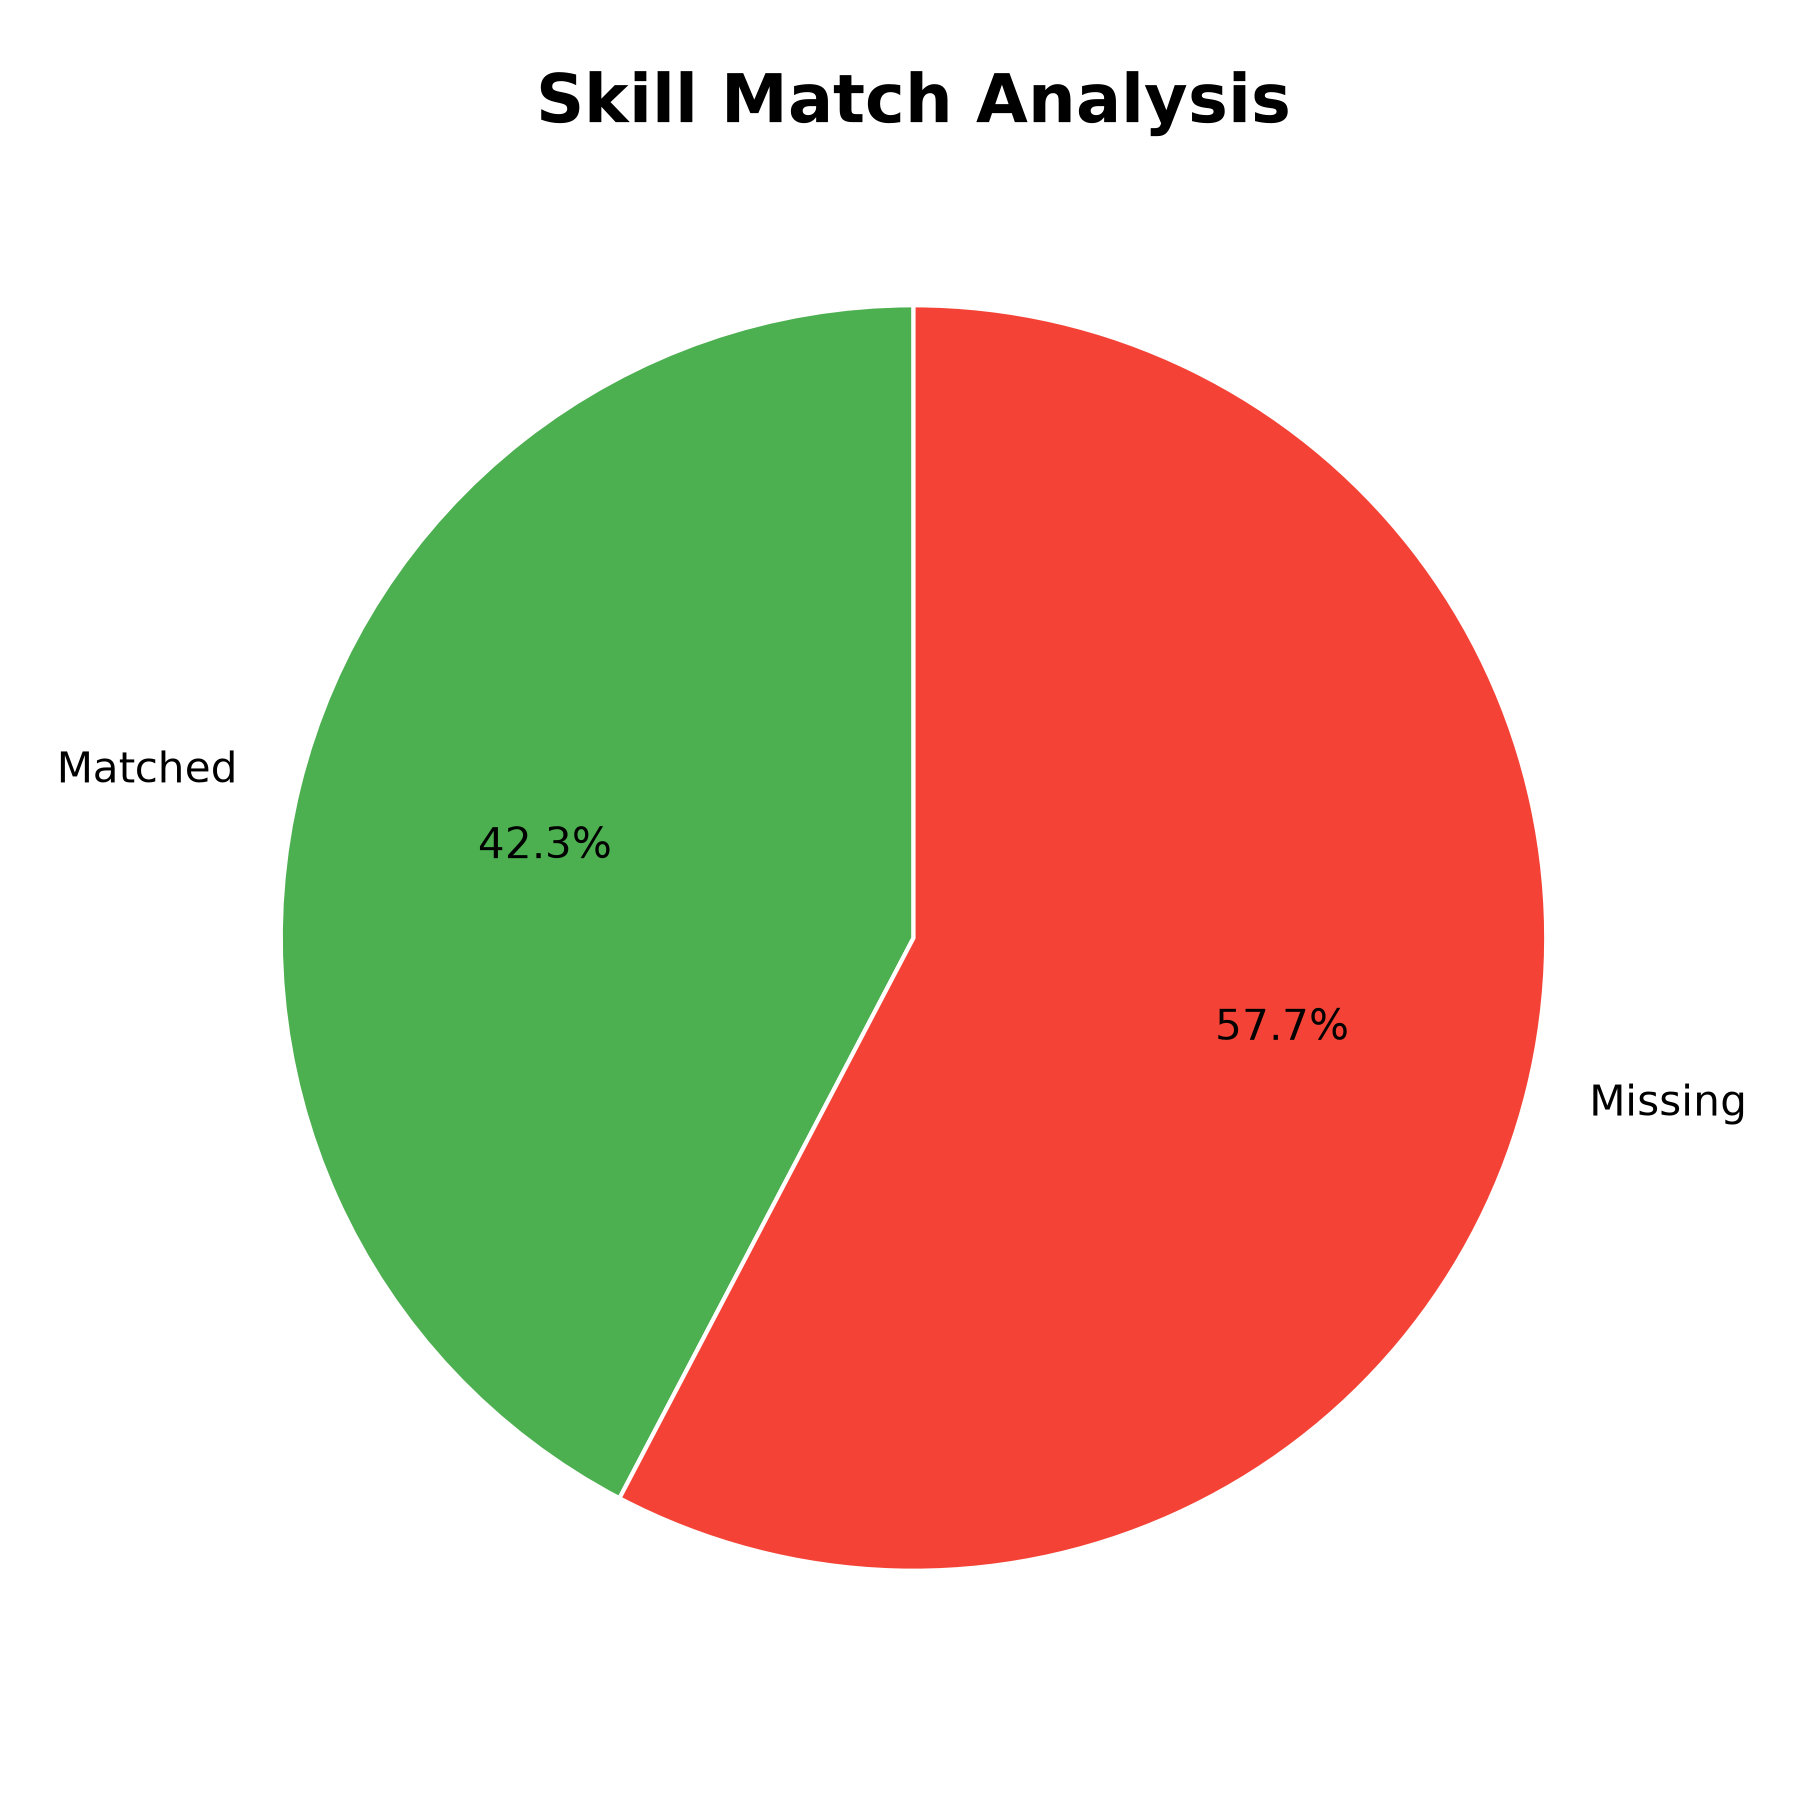
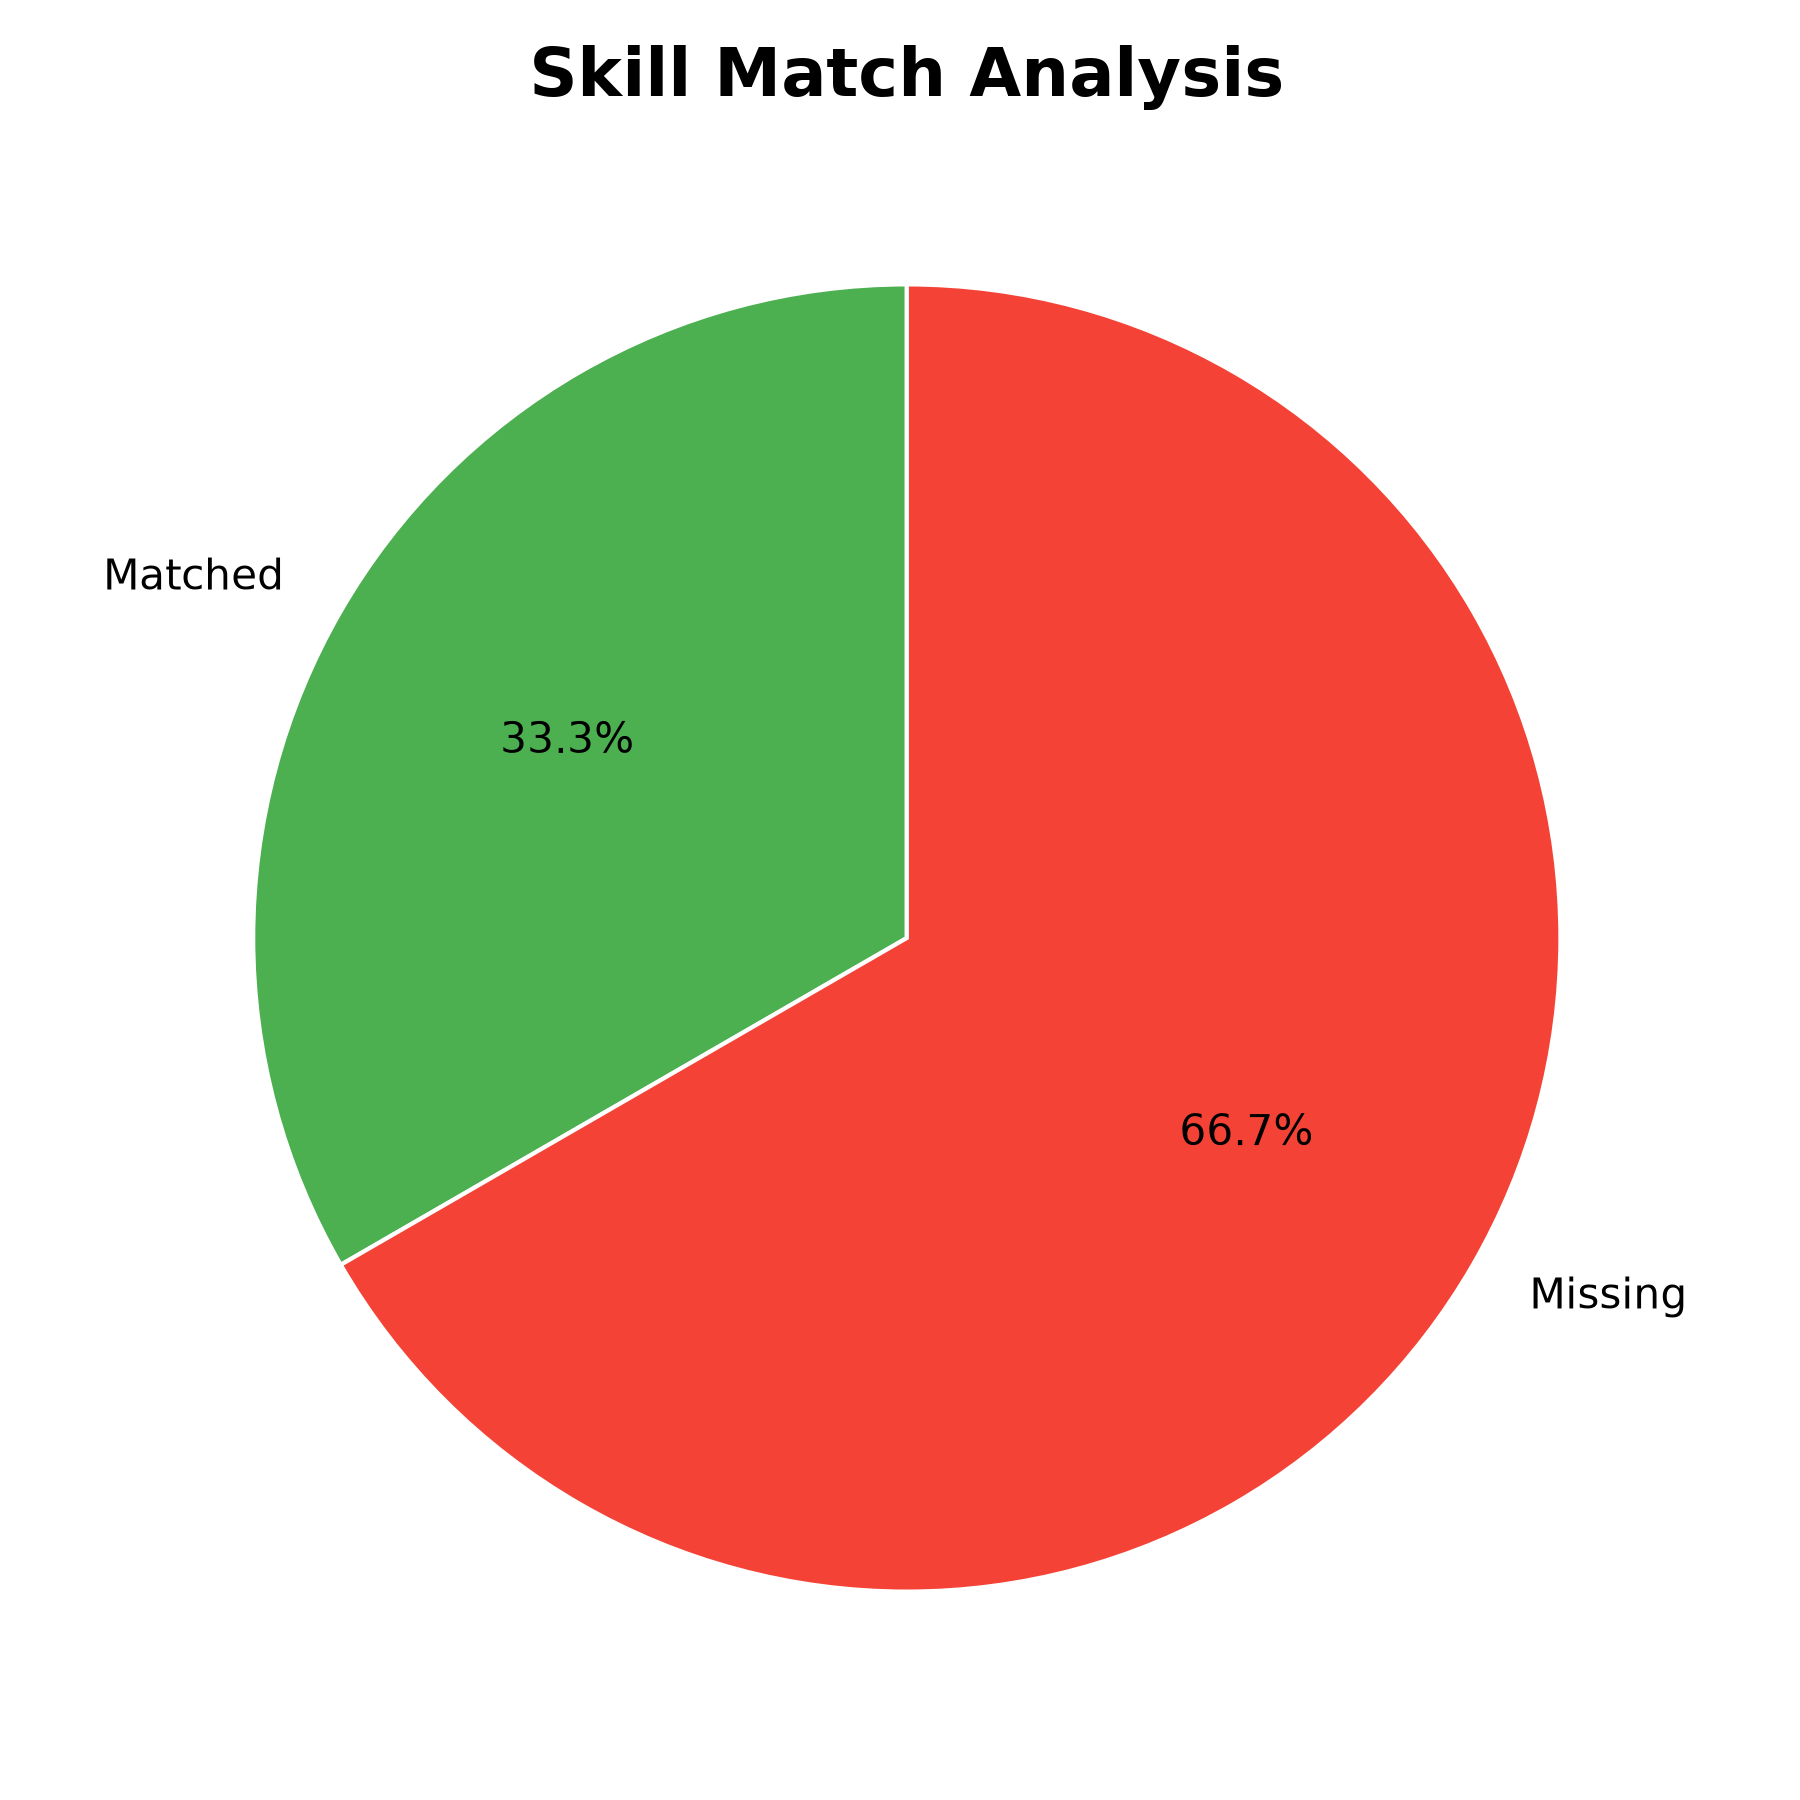
feat: complete AI resume analysis dashboard
Add centralized resume analysis service, chart generation, ATS scoring, skill matching, visual analytics, and AI-powered career feedback. Enhance the Gradio dashboard, update AI feedback integration, and include ATS and skill matching visualization assets.

diff --git a/analyzer/ai_feedback.py b/analyzer/ai_feedback.py
@@ -3,13 +3,20 @@ import os
 from dotenv import load_dotenv
 from huggingface_hub import InferenceClient
 
+
 # ==========================================================
-# Load Environment Variables
+# Configuration
 # ==========================================================
 
 load_dotenv()
 
 HF_TOKEN = os.getenv("HF_TOKEN")
+
+MODEL_NAME = os.getenv(
+    "HF_MODEL",
+    "Qwen/Qwen2.5-7B-Instruct-1M"
+)
+
 
 # ==========================================================
 # Hugging Face Client
@@ -19,80 +26,116 @@ client = InferenceClient(
     api_key=HF_TOKEN
 )
 
+
 # ==========================================================
 # AI Resume Feedback
 # ==========================================================
 
-def generate_feedback(resume_text, ats_score, missing_skills):
+def generate_feedback(
+    resume_text,
+    ats_score,
+    missing_skills
+):
     """
-    Generate AI-based resume improvement suggestions.
+    Generate AI-powered resume improvement suggestions.
 
     Parameters
     ----------
     resume_text : str
+        Extracted resume text.
+
     ats_score : int
+        Calculated ATS score.
+
     missing_skills : list
+        Skills missing from the resume based on
+        the provided job description.
 
     Returns
     -------
     str
+        AI-generated resume feedback.
     """
+
+    # ------------------------------------------------------
+    # Check Hugging Face Token
+    # ------------------------------------------------------
 
     if not HF_TOKEN:
         return (
-            "⚠ Hugging Face API token not found.\n"
-            "Create a .env file and add:\n\n"
+            "WARNING: Hugging Face API token not found.\n\n"
+            "Please create a .env file and add:\n\n"
             "HF_TOKEN=your_token"
         )
 
+    # ------------------------------------------------------
+    # Prepare Missing Skills
+    # ------------------------------------------------------
+
+    missing_skills_text = (
+        ", ".join(missing_skills)
+        if missing_skills
+        else "None"
+    )
+
+    # ------------------------------------------------------
+    # Build Prompt
+    # ------------------------------------------------------
+
     prompt = f"""
-You are an experienced ATS Resume Reviewer and Career Coach.
+You are an experienced ATS Resume Reviewer and AI Career Coach.
 
-Analyze the resume below.
+Analyze the candidate's resume.
 
-Current ATS Score:
+ATS Score:
 {ats_score}/100
 
 Missing Skills:
-{", ".join(missing_skills) if missing_skills else "None"}
+{missing_skills_text}
 
 Resume:
-
 {resume_text[:2500]}
 
-Provide:
+Provide a professional analysis with these sections:
 
-1. Overall evaluation.
-2. Five ATS improvement suggestions.
-3. Missing technical skills.
-4. Resume formatting advice.
-5. Final recommendation.
+1. Overall Evaluation
+2. Five ATS Improvement Suggestions
+3. Missing Technical Skills
+4. Resume Formatting Advice
+5. Final Career Recommendation
 
-Respond in professional markdown.
+Keep the response concise, practical, and professional.
+
+Focus on actionable advice that can help the candidate
+improve their chances of passing ATS screening.
 """
+
+    # ------------------------------------------------------
+    # Generate AI Response
+    # ------------------------------------------------------
 
     try:
 
         response = client.chat.completions.create(
-
-            model="HuggingFaceTB/SmolLM3-3B",
-
+            model=MODEL_NAME,
             messages=[
                 {
                     "role": "user",
-                    "content": prompt,
+                    "content": prompt
                 }
             ],
-
-            max_tokens=500,
-
+            max_tokens=500
         )
 
         return response.choices[0].message.content
 
+    # ------------------------------------------------------
+    # Handle API Errors
+    # ------------------------------------------------------
+
     except Exception as e:
 
         return (
-            "❌ AI feedback is currently unavailable.\n\n"
-            f"Error:\n{e}"
+            "AI feedback is currently unavailable.\n\n"
+            f"Error:\n{str(e)}"
         )

diff --git a/app.py b/app.py
@@ -1,6 +1,6 @@
 import gradio as gr
-
-from analyzer.resume_service import analyze_resume
+from dotenv import load_dotenv
+from analyzer.resume_service import analyze_resume as analyze_resume_service
 
 # ==========================================================
 # Theme
@@ -138,7 +138,7 @@ ATS scoring, intelligent job matching, and AI-powered resume feedback.
     )
 
     analyze_btn.click(
-        fn=analyze_resume,
+        fn=analyze_resume_service,
         inputs=[
             resume_file,
             job_description

diff --git a/analyzer/chart_generator.py b/analyzer/chart_generator.py
@@ -5,7 +5,17 @@ import matplotlib.pyplot as plt
 # Charts Folder
 # ==========================================================
 
-CHART_DIR = "assets/charts"
+BASE_DIR = os.path.dirname(
+    os.path.dirname(
+        os.path.abspath(__file__)
+    )
+)
+
+CHART_DIR = os.path.join(
+    BASE_DIR,
+    "assets",
+    "charts"
+)
 
 os.makedirs(CHART_DIR, exist_ok=True)
 
